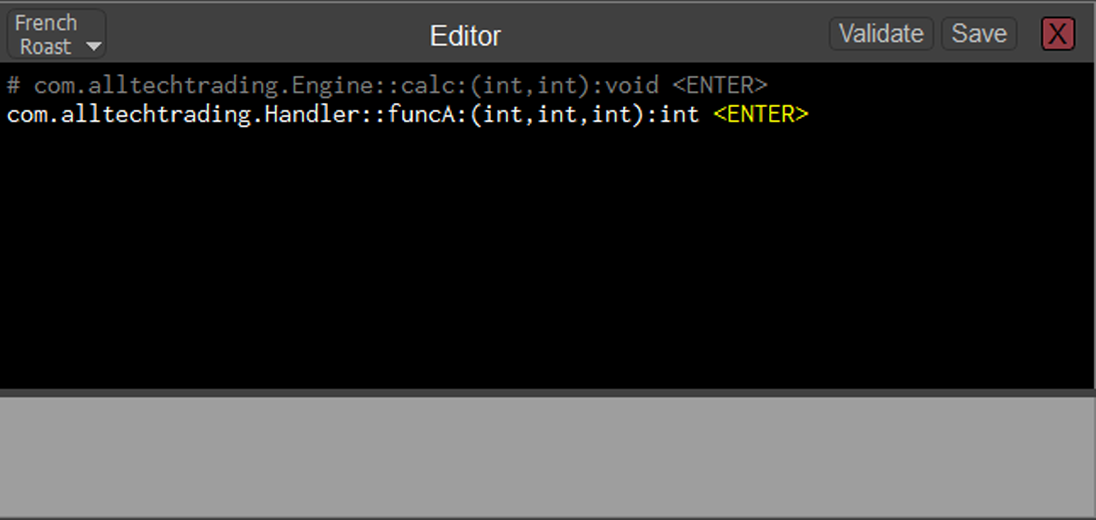
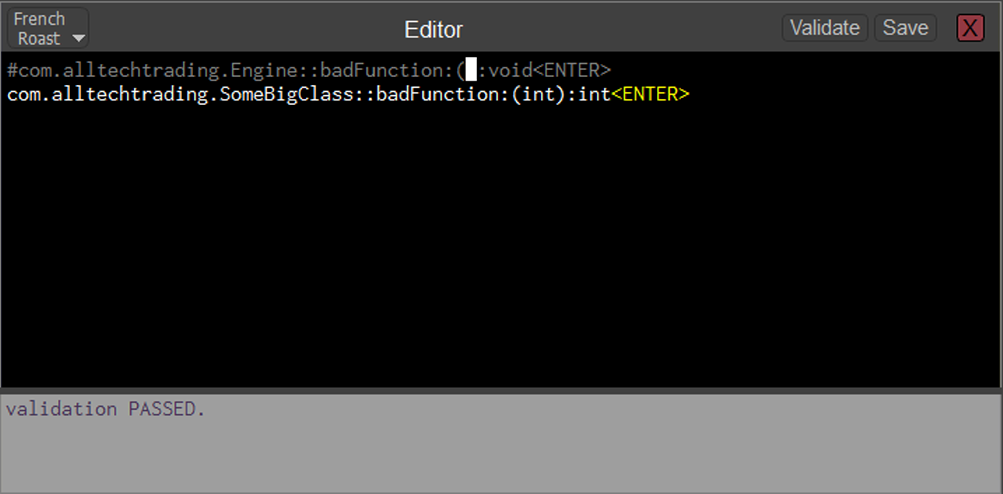
housekeeping: readme

Changed region(s): [[0.0, 0.0, 1.0, 1.0]]

diff --git a/README.md b/README.md
@@ -41,6 +41,12 @@ So it appears the function in question is only invoked 10 times. You run this by
 time to run.  So we change the ```<ENTER>``` to a ```<TIMER>```
 ![alt text](https://github.com/rguadagno/French-Roast/blob/master/docs/editor_2.png "")
 
+And re-kick the target app.
+![alt text](https://github.com/rguadagno/French-Roast/blob/master/docs/timers.png "")
+
+Now we see that the elapsed time is 45 seconds (for all 10 calls to the function ) for the "bad" method. Seems not so great but also could be
+worse as far as performance goes. But what else is going on ? Let's take a look at some Hot Stacks and Methods.
+
 
 
 ### Technology
